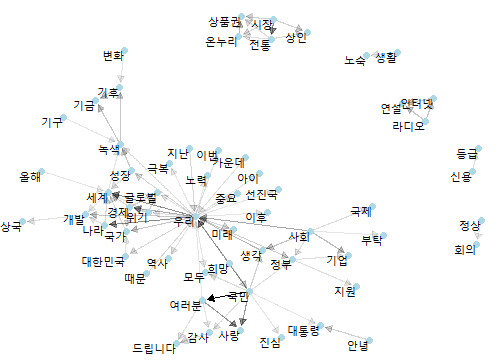
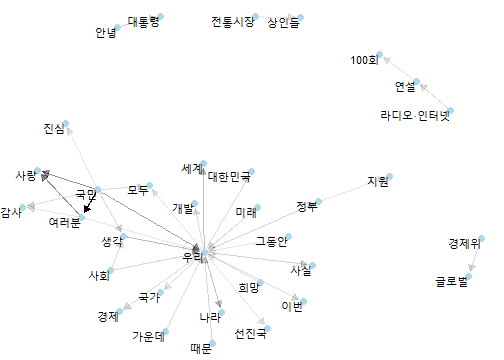
add widyr

diff --git a/docs/index.html b/docs/index.html
@@ -874,7 +874,7 @@ str_count(
 
 ### 연습문제
 
-1. 아래 코드로 이명박 대통령 연설문 중 10개 를 가져오세요.
+1. 아래 코드로 이명박 대통령 연설문 중 10개 를 가져오세요.    
 *stringr 패키지의 함수를 연습합니다.*
 1. `str_detect()` 함수를 사용해서 제목(title 컬럼)에 `나눔` 글자가 포함되어 있는 연설문을 찾으세요.
 1. `str_replace_all()` 함수를 사용해서 제목(title 컬럼)에 `인터넷 연설` 글자를 없애보세요.    
@@ -1088,6 +1088,23 @@ tar
 
 ---
 
+### 패키지 설치 및 함수 사용법
+
+
+
+```r
+install.packages("widyr" ,dependencies = T)
+
+pairwise_count(
+  tbl = 대상 데이터,
+  item = 갯수를 새어야 할 컬럼,
+  feature = 함께 출현했다고 판단할 단위 그룹,
+  sort = 출현 횟수 단위로 정렬할지
+)
+```
+
+---
+
 ### 기준 단어로 데이터 탐색
 
 `filter()` 함수로 기준 단어를 조회하면 함께 자주 나오는 단어와 그 빈도를 확인할 수 있음
@@ -1134,7 +1151,7 @@ pw %&gt;%
 ## Selecting by n
 ```
 
-![](index_files/figure-html/unnamed-chunk-37-1.png)&lt;!-- --&gt;
+![](index_files/figure-html/unnamed-chunk-38-1.png)&lt;!-- --&gt;
 
 ---
 
@@ -1209,9 +1226,9 @@ pw_graph
 ```
 
 ```
-## IGRAPH ce99911 DN-- 34 35 -- 
+## IGRAPH 9f5732c DN-- 34 35 -- 
 ## + attr: name (v/c), n (e/n)
-## + edges from ce99911 (vertex names):
+## + edges from 9f5732c (vertex names):
 ##  [1] 국민          -&gt;여러분   국민          -&gt;사랑    
 ##  [3] 여러분        -&gt;사랑     국민          -&gt;우리    
 ##  [5] 생각          -&gt;우리     우리          -&gt;세계    
@@ -1246,7 +1263,7 @@ ggraph(pw_graph) +
 ## Using `nicely` as default layout
 ```
 
-![](index_files/figure-html/unnamed-chunk-40-1.png)&lt;!-- --&gt;
+![](index_files/figure-html/unnamed-chunk-41-1.png)&lt;!-- --&gt;
 
 ---
 
